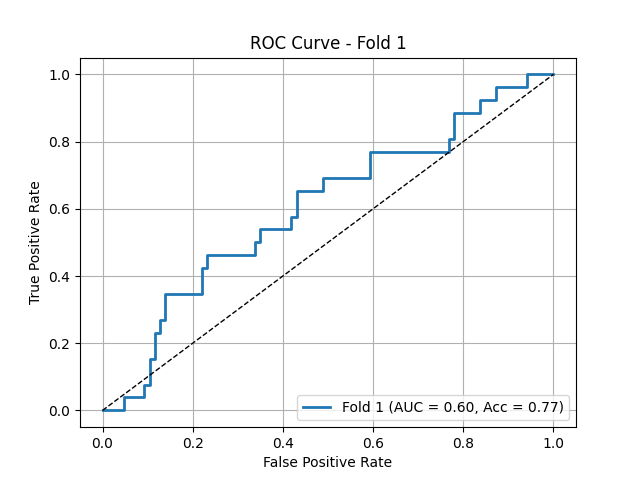
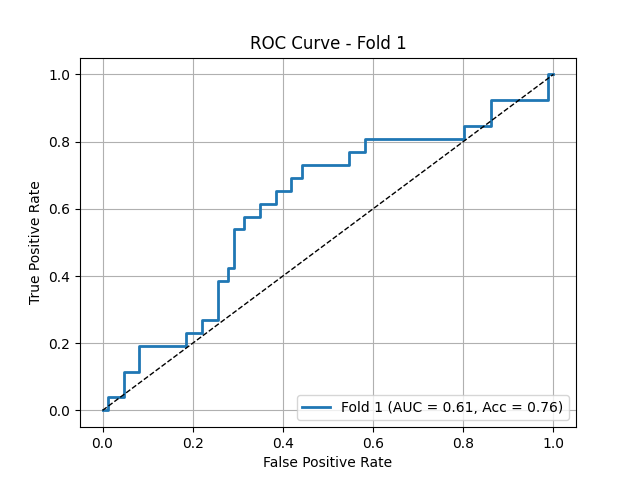
highered the noise addition

diff --git a/dataset_washu2.py b/dataset_washu2.py
@@ -112,7 +112,7 @@ train_transform = A.Compose([
     A.GridDistortion(distort_limit=0.01, p=0.5),
     
     # Intensity-related augmentations
-    A.GaussNoise(mean_range=(-0.1, 0.1), std_range=(0.001, 0.2), p=0.9),  # Slightly reduced noise
+    A.GaussNoise(mean_range=(-0.1, 0.1), std_range=(0.001, 0.3), p=0.9),  # Slightly reduced noise
     A.RandomBrightnessContrast(brightness_limit=0.05, contrast_limit=0.005, p=0.5),
     
     A.Downscale(scale_min=0.85, scale_max=0.99, p=0.5),
